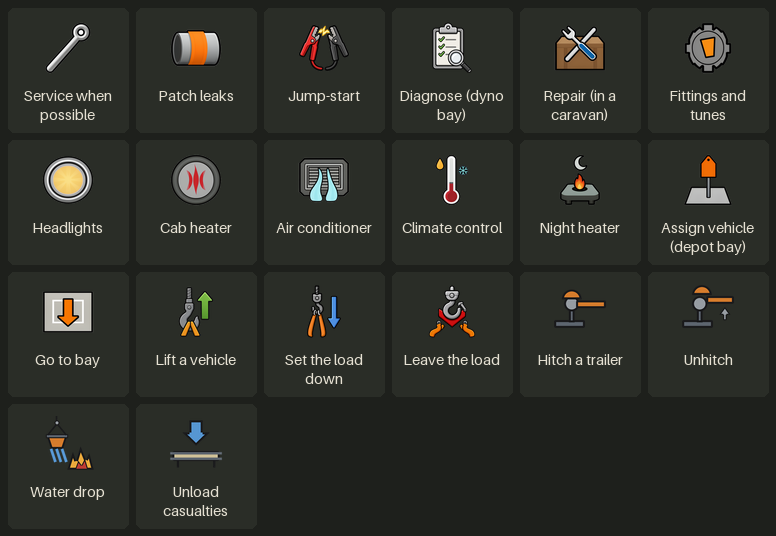
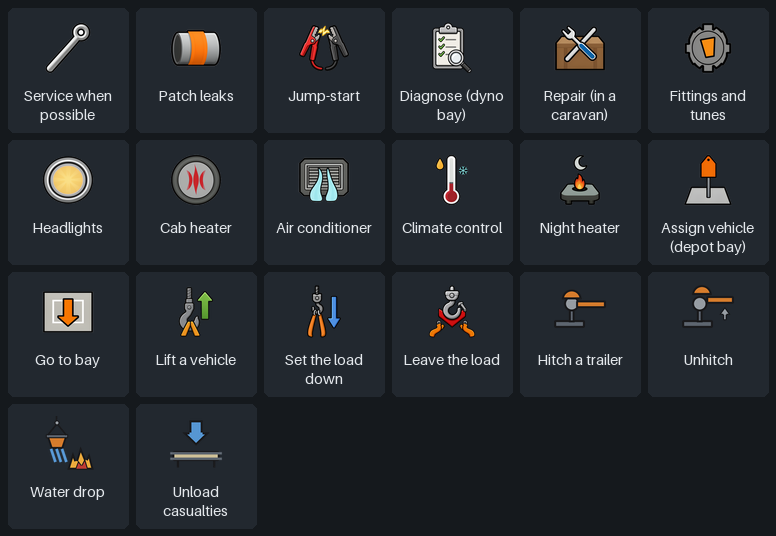
Player guide figures on the game's own slate instead of olive
The figures' background was said to be close to the game's window colour but was a muddy olive (#1E201C). The game's Widgets.WindowBGFillColor is RGB 21, 25, 29 (#15191D), a cool dark slate; the figures now use it, with cards, text and notes retuned to match. Owner's pick from a side-by-side of four backgrounds, 17 Nov 2026. All 21 figures redrawn.

diff --git a/scripts/art/guide_figures.py b/scripts/art/guide_figures.py
@@ -22,10 +22,10 @@ from PIL import Image, ImageDraw, ImageFont
 ROOT = Path(__file__).resolve().parents[2]
 MANIFEST = ROOT / 'docs' / 'player-guide' / 'images' / 'figures.json'
 
-BACKGROUND = (0x1E, 0x20, 0x1C)   # close to the game's window colour
-CARD = (0x2A, 0x2D, 0x27)
-TEXT = (0xE6, 0xE1, 0xD3)
-MUTED = (0xA8, 0xA3, 0x96)
+BACKGROUND = (0x15, 0x19, 0x1D)   # the game's own window colour, Widgets.WindowBGFillColor (21, 25, 29)
+CARD = (0x22, 0x28, 0x2F)         # a step lighter, in the same cool slate
+TEXT = (0xE4, 0xE8, 0xEC)
+MUTED = (0x9C, 0xA6, 0xB0)
 GAP = 16
 LABEL_SIZE = 18
 NOTE_SIZE = 14
